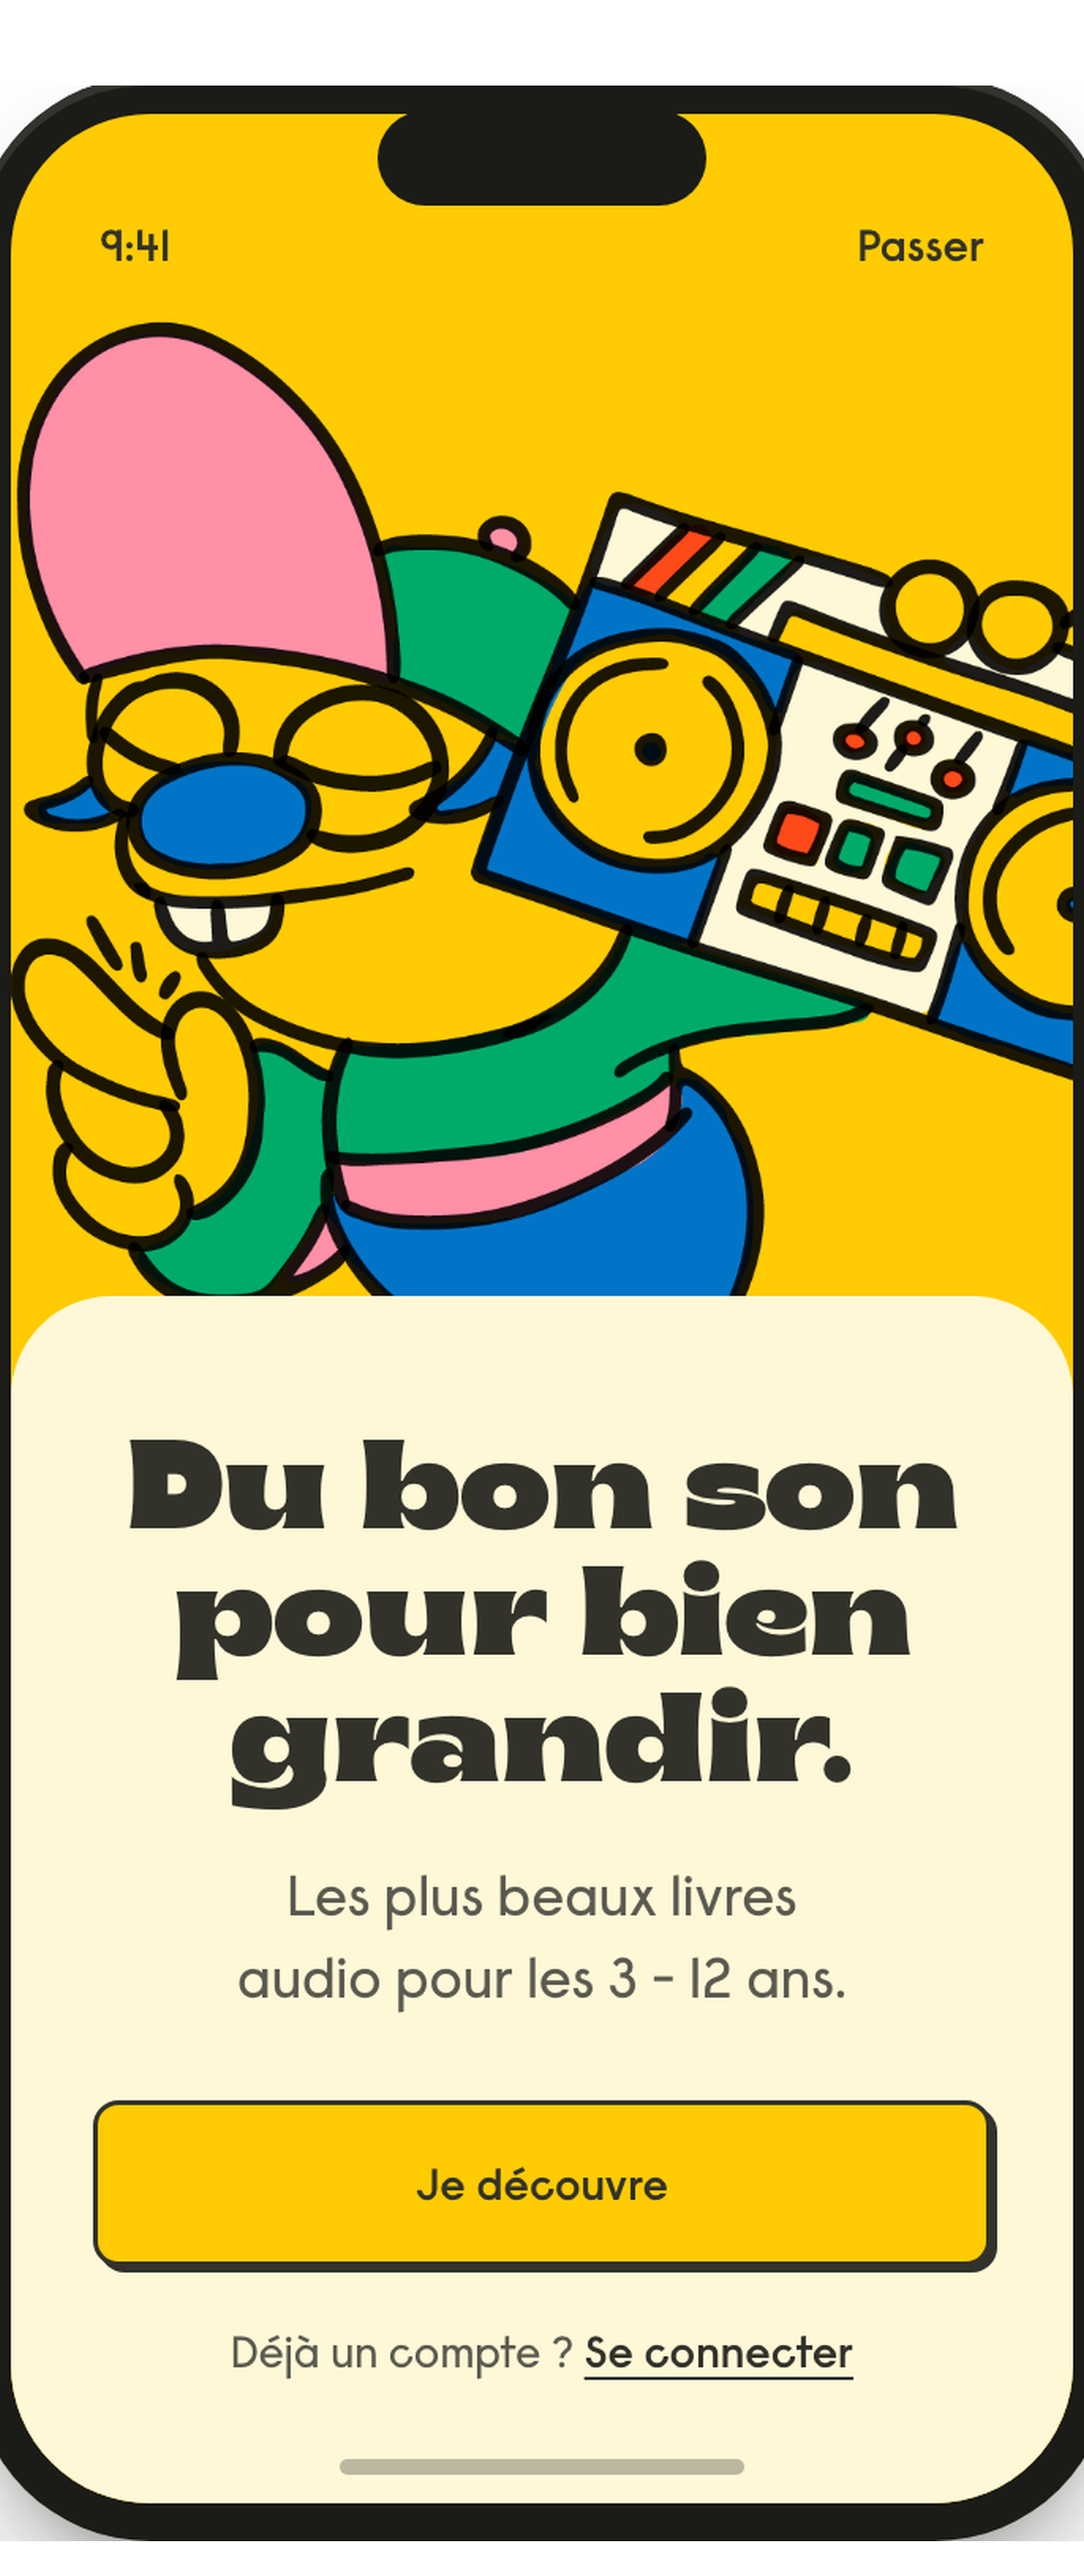
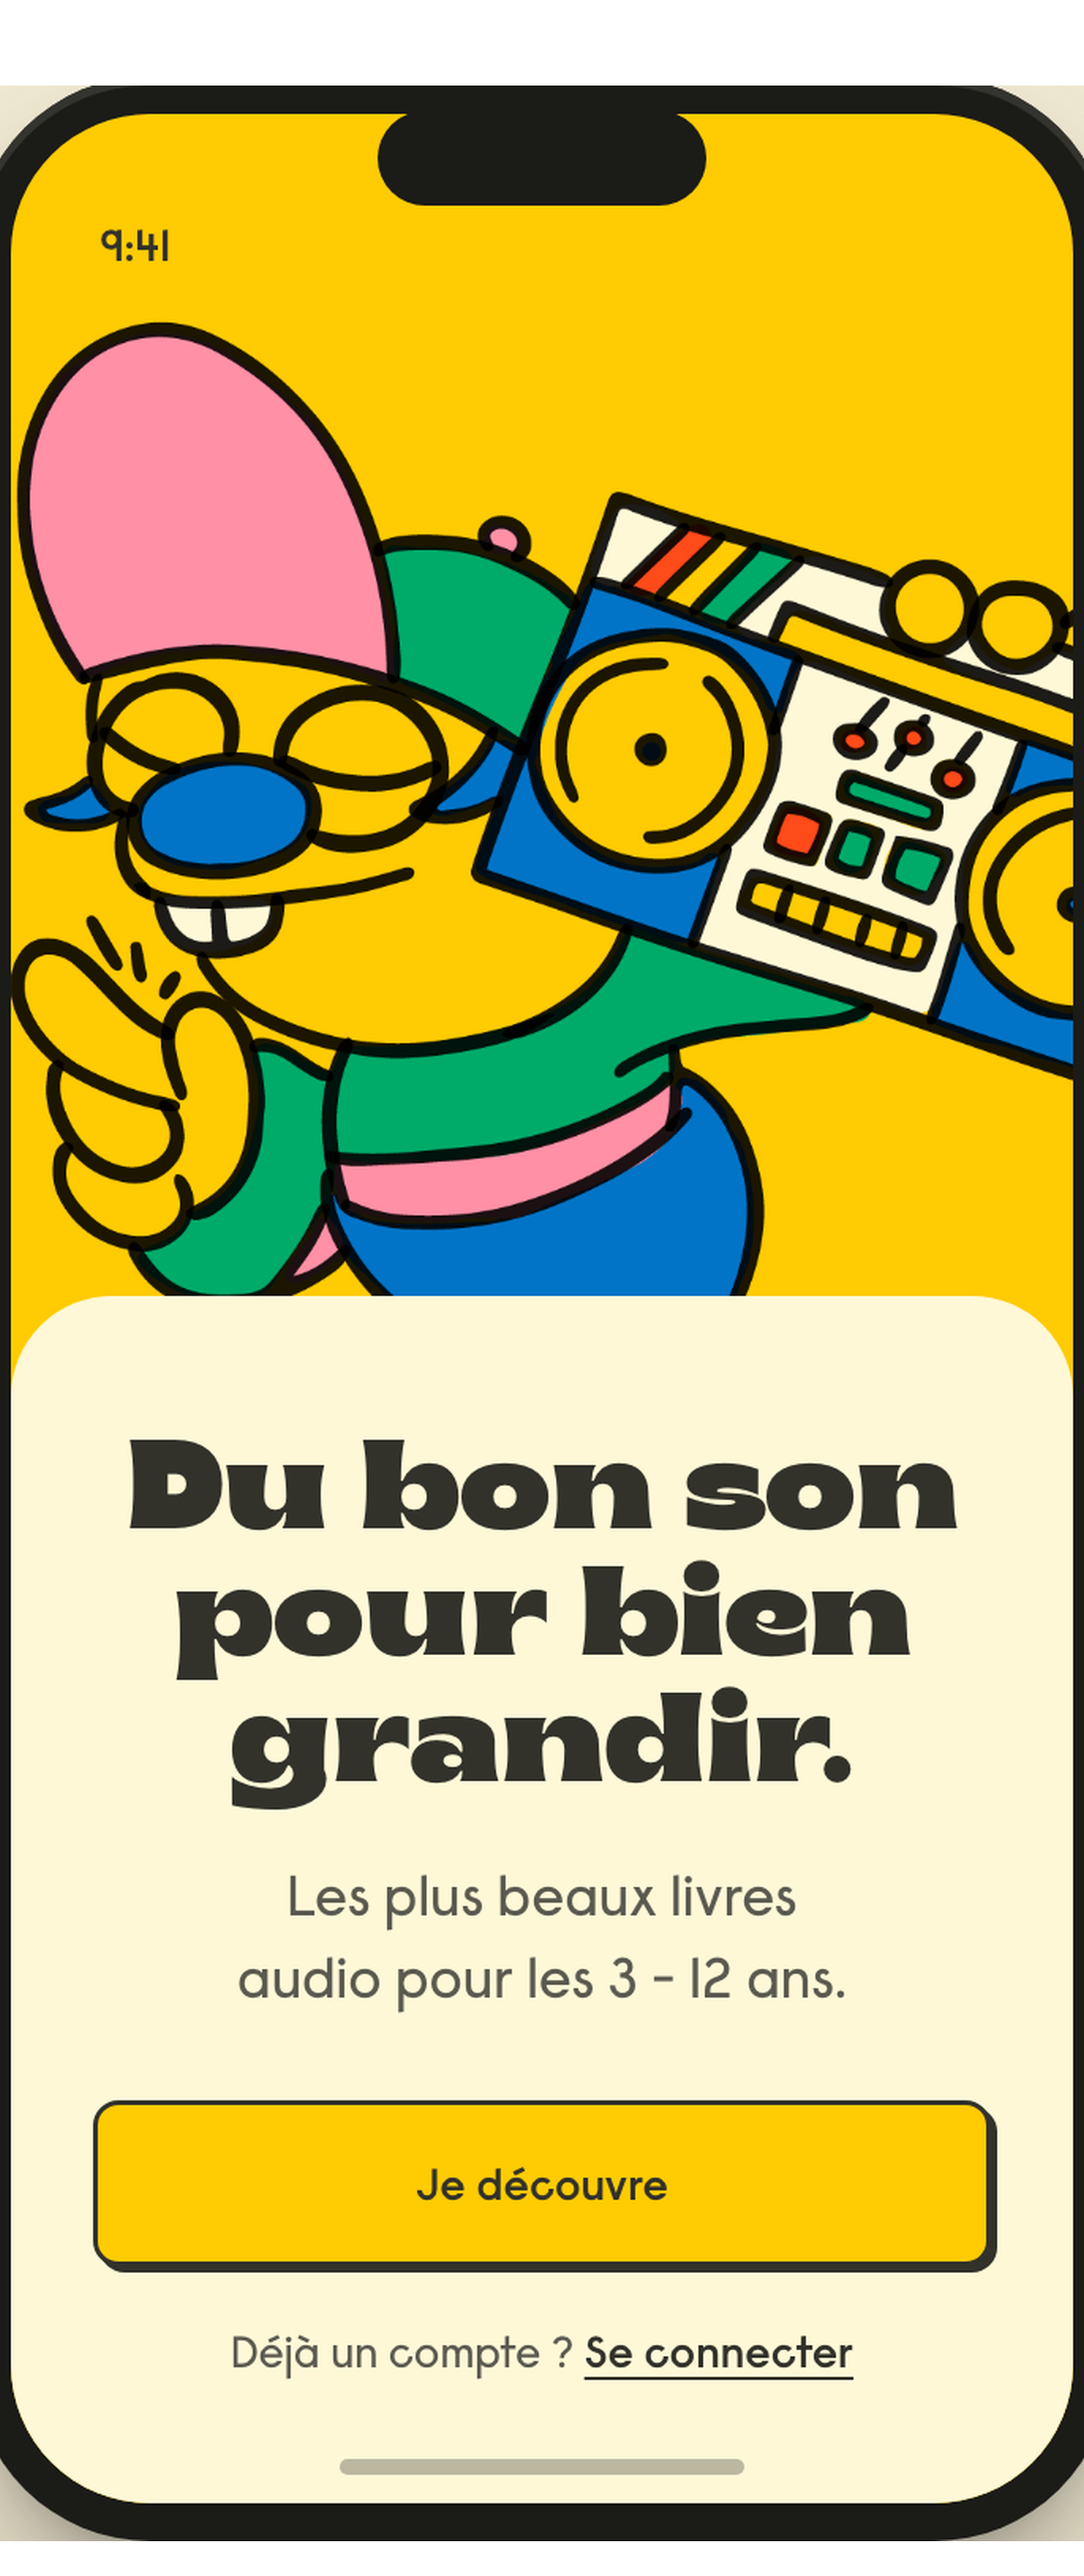
fix: update accroche screen (Passer removed) + remove Passer button from schema node

diff --git a/kidsono-analyses-onboarding/schema-navigation.html b/kidsono-analyses-onboarding/schema-navigation.html
@@ -98,7 +98,7 @@
   // ---- données : ordre = déroulé ; pos = position du bouton sur l'écran ----
   var NODES=[
     {id:'splash',name:'Splash',type:'nat',img:'01-splash.png',b:[['(auto)','accroche',0,'b']]},
-    {id:'accroche',name:'Accroche / Claim',type:'ply',img:'02-accroche.png',off:1,b:[['Passer','catalogue',0,'t'],["Je découvre",'consent',1,'b'],['Se connecter','compte',0,'b']]},
+    {id:'accroche',name:'Accroche / Claim',type:'ply',img:'02-accroche.png',off:1,b:[["Je découvre",'consent',1,'b'],['Se connecter','compte',0,'b']]},
     {id:'consent',name:'Consentement données',type:'dev',img:'consent-donnees.png',b:[['Accepter','car1',1,'b'],['Ne pas accepter','car1',0,'b']]},
     {id:'car1',name:'Carrousel 1 · Catalogue',type:'ply',img:'valeur-1-catalogue.png',off:1,b:[['◂ Retour','consent',0,'t'],['Passer','catalogue',0,'t'],['Suivant','car2',1,'b']]},
     {id:'car2',name:'Carrousel 2 · Autorité',type:'ply',img:'06-autorite.png',off:1,b:[['◂ Retour','car1',0,'t'],['Passer','catalogue',0,'t'],['Suivant','car3',1,'b']]},
